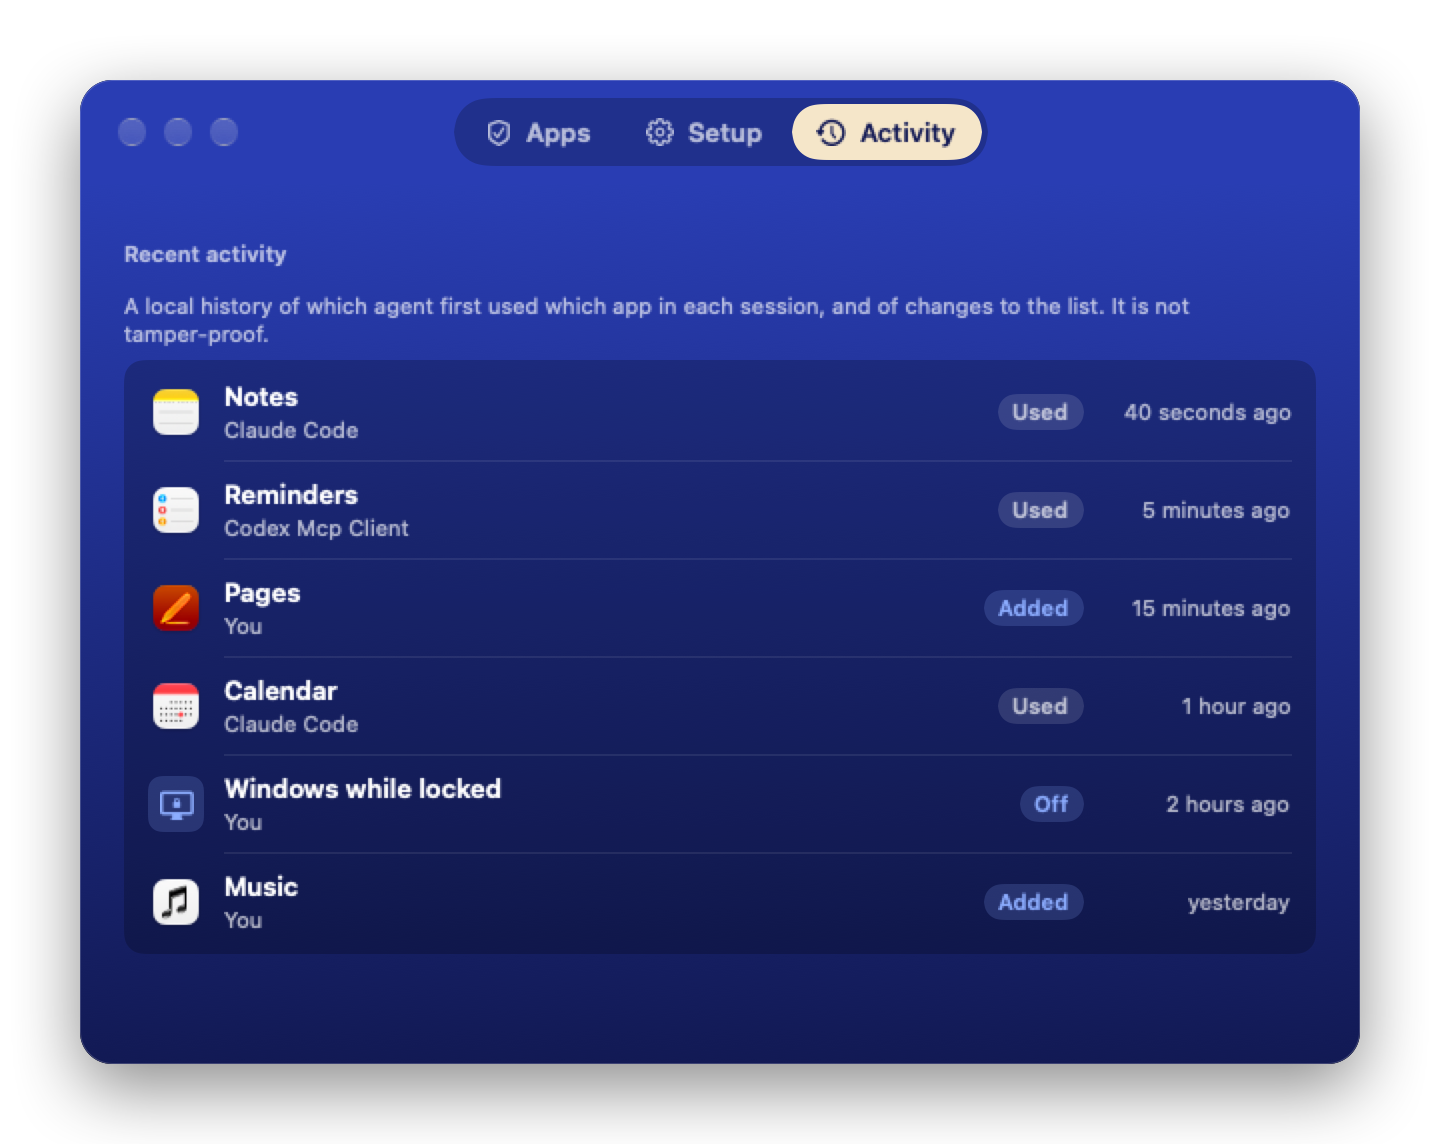
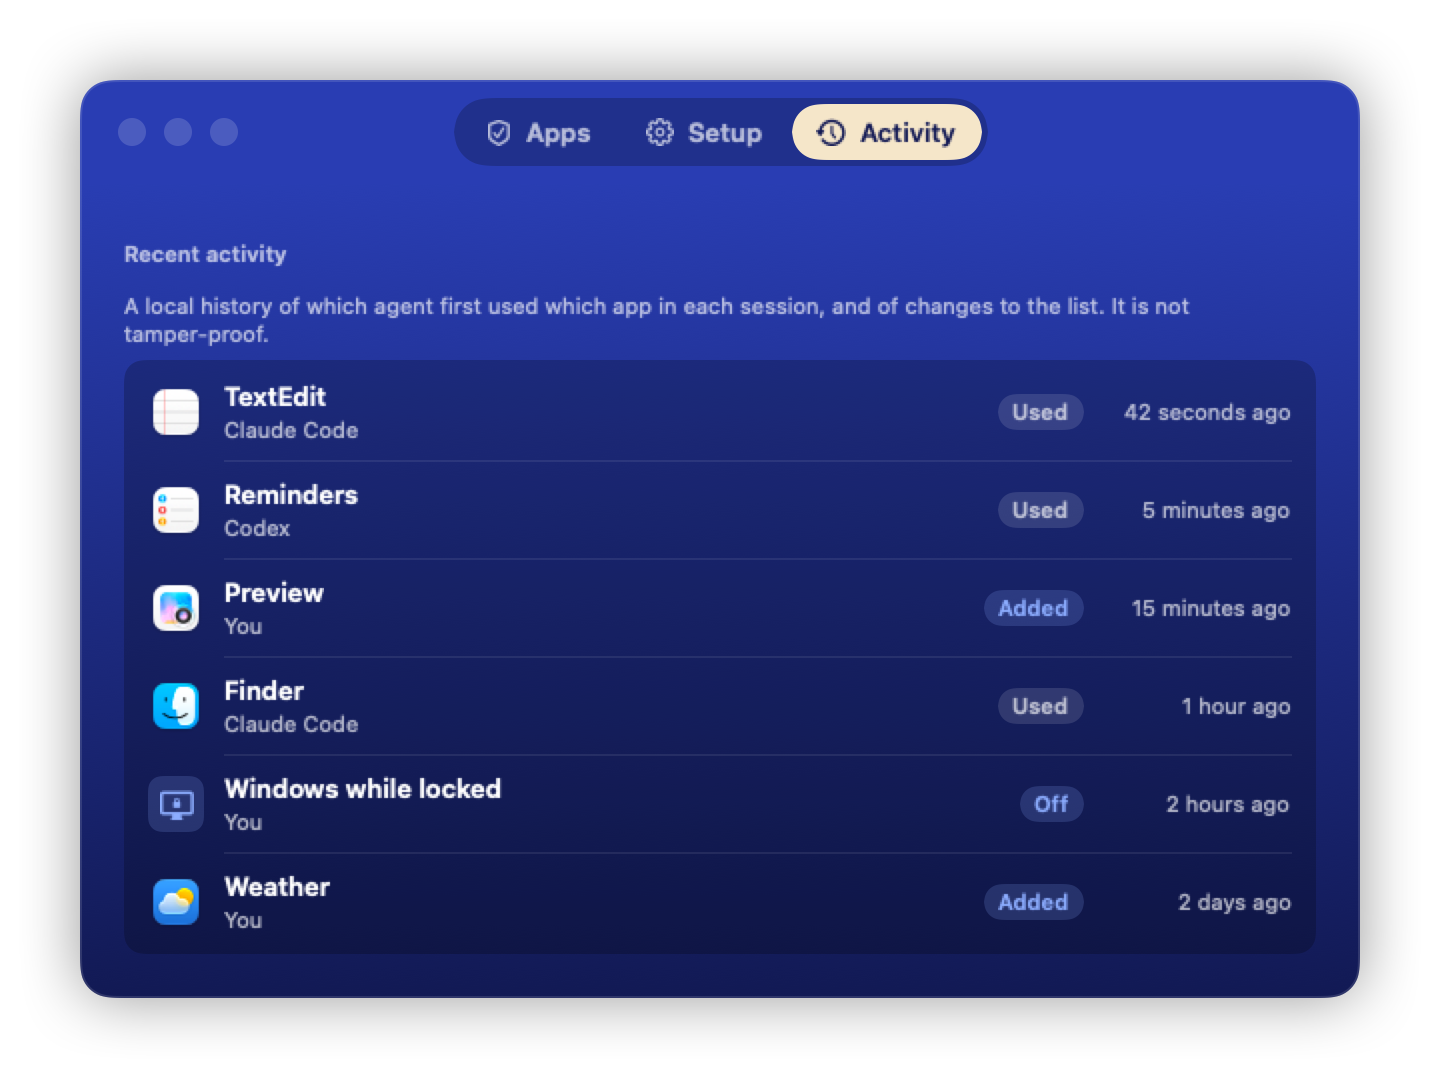
Draw the window's tabs into the documentation's pictures offscreen at 2x with --render-window

diff --git a/Sources/App/window/WindowRendering.swift b/Sources/App/window/WindowRendering.swift
@@ -1,0 +1,97 @@
+// Draws each tab of the Backstage window into a PNG for the documentation: the whole tab at the window's width,
+// at 2x, with the title bar band, the tabs, rounded corners and a shadow on a transparent background. It reads what
+// the window would show this process, and never shows a window, takes the focus or changes anything.
+
+import AppKit
+import SwiftUI
+
+// The band holding the traffic lights and the tabs, and the margin the shadow falls into.
+private let titleBandHeight: CGFloat = 52
+private let shadowMargin: CGFloat = 40
+private let windowCornerRadius: CGFloat = 16
+private let renderScale: CGFloat = 2
+
+// The traffic lights as an inactive window shows them.
+private struct InactiveTrafficLights: View {
+  var body: some View {
+    HStack(spacing: 9) {
+      ForEach(0..<3, id: \.self) { _ in
+        Circle().fill(Color.white.opacity(0.16)).frame(width: 14, height: 14)
+      }
+    }
+  }
+}
+
+private struct RenderedWindow: View {
+  let model: ControlModel
+  let selection: ControlSelection
+
+  var body: some View {
+    VStack(spacing: 0) {
+      ZStack {
+        ToolbarTabs(model: model, selection: selection)
+        InactiveTrafficLights().frame(maxWidth: .infinity, alignment: .leading).padding(.leading, 19)
+      }
+      .frame(height: titleBandHeight)
+      ControlContent(model: model, selection: selection).environment(\.colorScheme, .dark)
+    }
+    .frame(width: controlWindowWidth)
+    .fixedSize(horizontal: false, vertical: true)
+    .background(alignment: .top) {
+      VStack(spacing: 0) {
+        Palette.royal.frame(height: titleBandHeight)
+        brandGradient
+      }
+    }
+    .clipShape(RoundedRectangle(cornerRadius: windowCornerRadius, style: .continuous))
+    .overlay(RoundedRectangle(cornerRadius: windowCornerRadius, style: .continuous).strokeBorder(Color.white.opacity(0.12), lineWidth: 1))
+    // Even all round: a vertical offset comes out mirrored in cacheDisplay.
+    .shadow(color: .black.opacity(0.4), radius: 16)
+    .padding(shadowMargin)
+  }
+}
+
+// An NSHostingView in a borderless window that is never ordered in draws AppKit-backed controls such as the
+// switches, which ImageRenderer leaves out.
+private func renderPNG(of view: some View) -> Data? {
+  let hosting = NSHostingView(rootView: view)
+  hosting.frame.size = hosting.fittingSize
+  let window = NSWindow(contentRect: hosting.frame, styleMask: .borderless, backing: .buffered, defer: false)
+  window.isOpaque = false
+  window.backgroundColor = .clear
+  window.appearance = NSAppearance(named: .darkAqua)
+  window.contentView = hosting
+  hosting.layoutSubtreeIfNeeded()
+  // Lets SwiftUI finish its first update before the drawing.
+  RunLoop.main.run(until: Date().addingTimeInterval(0.3))
+
+  let size = hosting.bounds.size
+  guard let bitmap = NSBitmapImageRep(
+    bitmapDataPlanes: nil, pixelsWide: Int(size.width * renderScale), pixelsHigh: Int(size.height * renderScale),
+    bitsPerSample: 8, samplesPerPixel: 4, hasAlpha: true, isPlanar: false, colorSpaceName: .deviceRGB,
+    bytesPerRow: 0, bitsPerPixel: 0)
+  else { return nil }
+  bitmap.size = size
+  hosting.cacheDisplay(in: hosting.bounds, to: bitmap)
+  return bitmap.representation(using: .png, properties: [:])
+}
+
+// Writes window-apps.png, window-setup.png and window-activity.png into the folder; false when one failed.
+func renderControlWindow(into folder: String) -> Bool {
+  let application = NSApplication.shared
+  application.setActivationPolicy(.prohibited)
+  let model = ControlModel()
+  var succeeded = true
+  for tab in ControlTab.allCases {
+    let path = (folder as NSString).appendingPathComponent("window-\(tab.rawValue).png")
+    guard let data = renderPNG(of: RenderedWindow(model: model, selection: ControlSelection(tab))),
+      (try? data.write(to: URL(fileURLWithPath: path))) != nil
+    else {
+      FileHandle.standardError.write(Data("Could not write \(path)\n".utf8))
+      succeeded = false
+      continue
+    }
+    print(path)
+  }
+  return succeeded
+}

diff --git a/Sources/App/window/ControlWindow.swift b/Sources/App/window/ControlWindow.swift
@@ -72,7 +72,7 @@ private struct TabBar: View {
 }
 
 // The tab bar as the toolbar shows it, following the model for the missing-permission dot.
-private struct ToolbarTabs: View {
+struct ToolbarTabs: View {
   @ObservedObject var model: ControlModel
   @ObservedObject var selection: ControlSelection
 
@@ -83,22 +83,32 @@ private struct ToolbarTabs: View {
   }
 }
 
+// The chosen tab under the waiting section, at its whole height.
+struct ControlContent: View {
+  @ObservedObject var model: ControlModel
+  @ObservedObject var selection: ControlSelection
+
+  var body: some View {
+    VStack(alignment: .leading, spacing: 14) {
+      WaitingSection(model: model)
+      switch selection.tab {
+      case .apps: AppsTab(model: model, showSetup: { selection.tab = .setup })
+      case .setup: SetupTab(model: model)
+      case .activity: ActivityTab(model: model)
+      }
+    }
+    .padding(22)
+    .frame(maxWidth: .infinity, alignment: .leading)
+  }
+}
+
 struct ControlView: View {
   @ObservedObject var model: ControlModel
   @ObservedObject var selection: ControlSelection
 
   var body: some View {
     ScrollView {
-      VStack(alignment: .leading, spacing: 14) {
-        WaitingSection(model: model)
-        switch selection.tab {
-        case .apps: AppsTab(model: model, showSetup: { selection.tab = .setup })
-        case .setup: SetupTab(model: model)
-        case .activity: ActivityTab(model: model)
-        }
-      }
-      .padding(22)
-      .frame(maxWidth: .infinity, alignment: .leading)
+      ControlContent(model: model, selection: selection)
     }
     .frame(width: controlWindowWidth)
     .frame(maxHeight: .infinity)

diff --git a/Sources/HelperLink/Product.swift b/Sources/HelperLink/Product.swift
@@ -23,6 +23,8 @@ public enum Product {
   // Arguments the command opens the app with: started for a client, without its window, or with its window on a tab.
   public static let backgroundArgument = "--background"
   public static let tabArgument = "--tab"
+  // Draws the window's tabs into PNG files in the folder that follows, for the documentation, and exits.
+  public static let renderWindowArgument = "--render-window"
   // An Info.plist key saying which way of taking over a running MCP session the bundle's command speaks
   // (`make app` writes both); a command hands its session only to a bundle with its own revision.
   public static let sessionHandoffKey = "SessionHandoffRevision"

diff --git a/Sources/App/HelperMain.swift b/Sources/App/HelperMain.swift
@@ -19,6 +19,9 @@ enum HelperMain {
     if Bundle.main.bundleIdentifier == nil, let index = arguments.firstIndex(of: "--home"), arguments.indices.contains(index + 1) {
       Configuration.directories = Directories(testHome: arguments[index + 1])
     }
+    if let index = arguments.firstIndex(of: Product.renderWindowArgument), arguments.indices.contains(index + 1) {
+      exit(renderControlWindow(into: arguments[index + 1]) ? 0 : 1)
+    }
     for directory in [Configuration.configHome, Configuration.stateHome] {
       try? ensurePrivateDirectory(directory)
     }

diff --git a/docs/development.md b/docs/development.md
@@ -18,6 +18,8 @@ make clean     # remove build/ and .build/
 
 Clients run the command inside the installed app, so changes in the checkout reach them only after `make install`. Running sessions then move to the new command on their next request ([Builds and updates](architecture.md#builds-and-updates)).
 
+The window's pictures in `docs/images` are drawn offscreen at 2x, each tab at its whole height, with `--render-window <folder>`, which writes `window-apps.png`, `window-setup.png` and `window-activity.png` there. Run it from a bare build with a sample home, so the pictures show a sample list and activity rather than yours: put an `approvals.json` and a `decisions.jsonl` in a temporary folder, then run `swift build` and `"$(swift build --show-bin-path)/Backstage" --home <that folder> --render-window <output folder>`. The grants shown are those of the process that runs it. It shows no window and changes nothing, so it also runs while the installed helper serves agents.
+
 `backstage version` prints `Product.version` from `Sources/HelperLink/Product.swift`, which `make app` also writes into the bundle's `Info.plist`; the Homebrew formula's test checks it.
 
 `SWIFT_BUILD_FLAGS` passes extra flags to every `swift build` the Makefile runs; the formula passes `--disable-sandbox`, because SwiftPM's own sandbox cannot start inside Homebrew's build sandbox.
@@ -84,7 +86,7 @@ The tag starts `.github/workflows/release.yml`. It builds the app and runs the t
 | `Sources/App/WaitFor.swift` | `wait_for` |
 | `Sources/App/AudioRecording.swift` | `record_audio`: a muted Core Audio tap of an app and its helper processes |
 | `Sources/App/MenuBar.swift`, `LaunchAtLogin.swift`, `Preferences.swift` | The menu bar item, starting at login, and the settings in `settings.json` |
-| `Sources/App/window/`, `Theme.swift` | The Backstage window: one file per tab, the waiting section, the drag panel for Full Disk Access, its model, texts and look |
+| `Sources/App/window/`, `Theme.swift` | The Backstage window: one file per tab, the waiting section, the drag panel for Full Disk Access, its model, texts and look, and drawing the tabs into the pictures of the documentation (`WindowRendering.swift`) |
 | `Sources/App/apps/Catalog.swift` | The catalog of app knowledge, `list_operations` and `run_operation` |
 | `Sources/App/apps/AppAccess.swift` | The macOS grants ready operations need, as the Setup tab shows them |
 | `Sources/App/apps/Scripting.swift`, `EventStore.swift`, `ReadOnlyDatabase.swift`, `Typedstream.swift`, `UserPaths.swift` | The routes operations share: the `osascript` runner, EventKit, read-only SQLite, the reader for Messages' archived text, and the rule for which files operations may touch |

diff --git a/docs/window.md b/docs/window.md
@@ -3,11 +3,11 @@
 Open **Backstage** from `/Applications` to see and change everything in one window, with three tabs. It is the only place where apps go on the list.
 
 <p align="center">
-  <img src="images/window-apps.png" width="420" alt="The Apps tab: Allow every app is off, and Calendar, Finder, Music, Notes, Pages and Reminders are on the list of apps agents may use">
+  <img src="images/window-apps.png" width="420" alt="The Apps tab: Allow every app is off, and Finder, Preview, Reminders, TextEdit and Weather are on the list of apps agents may use">
 </p>
 
 <p align="center">
-  <img src="images/window-setup.png" width="420" alt="The Setup tab: Open at login, Show in menu bar and Windows while locked under Background, Accessibility and Screen Recording allowed, and the macOS grants the listed apps use; this picture does not show the System Audio Recording row or the Full Disk Access rows">
+  <img src="images/window-setup.png" width="420" alt="The Setup tab: Open at login, Show in menu bar and Windows while locked under Background; Accessibility and Screen Recording allowed and System Audio Recording with an Allow button; the grants of the listed apps, with Add in Settings buttons for the Messages history and WhatsApp, which need Full Disk Access">
   <img src="images/window-activity.png" width="420" alt="The Activity tab: which agent first used which app, and changes to the list and the switches, with relative times">
 </p>
 

diff --git a/README.md b/README.md
@@ -141,7 +141,7 @@ While the screen is locked, ready operations and the menu bar keep working, and 
 Open **Backstage** from `/Applications` to choose apps, allow optional permissions and see which agent used which app. [docs/window.md](docs/window.md) describes each tab.
 
 <p align="center">
-  <img src="docs/images/window-apps.png" width="480" alt="The Backstage window on its Apps tab: Allow every app is off, and Calendar, Finder, Music, Notes, Pages and Reminders are on the list of apps agents may use">
+  <img src="docs/images/window-apps.png" width="480" alt="The Backstage window on its Apps tab: Allow every app is off, and Finder, Preview, Reminders, TextEdit and Weather are on the list of apps agents may use">
 </p>
 
 ## Troubleshooting
